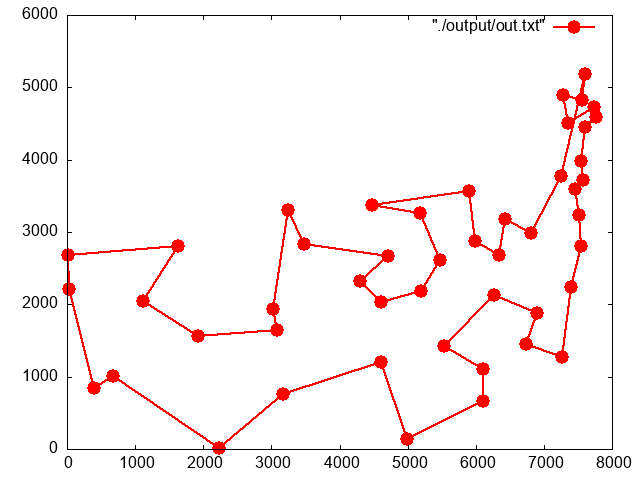
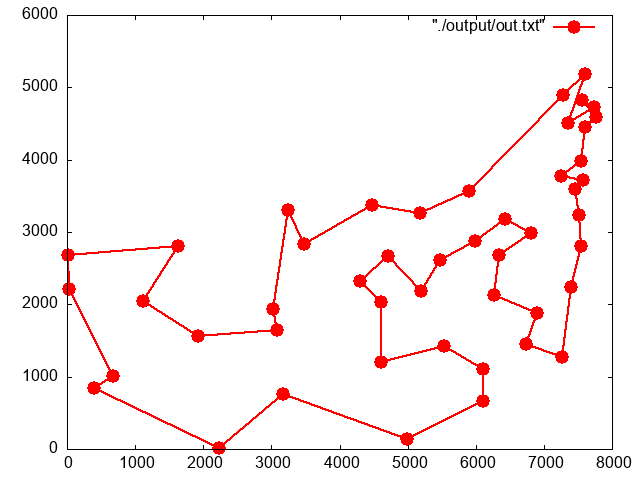
bug fixes

diff --git a/project/h_opt2.c b/project/h_opt2.c
@@ -34,12 +34,8 @@ int opt_2(instance *inst, double tl, int *solution, double *cost){
     
     if(!inst->flagCost)
         computeCost(inst);
-
-
-    inst->tabu = (int*)calloc(inst->nnodes, sizeof(int));
-    int tcurrent=1;
+    
     double delta;
-
     double oldCost = *cost; 
 
 
@@ -47,34 +43,26 @@ int opt_2(instance *inst, double tl, int *solution, double *cost){
         delta = 0;
         int a = -1, b = -1;
         for(int i=0; i<inst->nnodes-1; i++)
-          {  if((inst->tabu[i]==0 && inst->tabu[solution[i]]==0)||(inst->tabu[i] + tmax < tcurrent&& inst->tabu[solution[i]] + tmax < tcurrent))
-                 for(int j=i+1; j<inst->nnodes; j++)
+                for(int j=i+1; j<inst->nnodes; j++)
                 {
-                    if((inst->tabu[j]==0 && inst->tabu[solution[j]]==0)||(inst->tabu[j] + tmax < tcurrent&& inst->tabu[solution[j]] + tmax < tcurrent))
-                    {
-                         double deltaTemp = get_cost(i,j,inst)  +  get_cost(solution[j],solution[i],inst) -  (get_cost(i,solution[i],inst)  +  get_cost(j,solution[j],inst));
+                   double deltaTemp = get_cost(i,j,inst)  +  get_cost(solution[j],solution[i],inst) -  (get_cost(i,solution[i],inst)  +  get_cost(j,solution[j],inst));
                     
-                         if(deltaTemp < delta)
-                        {   
-                            delta = deltaTemp;
-                            a = i;
-                            b = j;
-                        }
-                    }
-            }
+                    if(deltaTemp < delta)
+                    {   
+                        delta = deltaTemp;
+                        a = i;
+                        b = j;
+                     }
+                    
+                }
            
-          }
+        if(delta < 0)  
+        {
+            reverse(inst,solution,a,b);
             *cost += delta;  //update cost
+        }
             
-
-            if(delta < 0)
-            {   if(inst->flagtabu==1)
-                    inst->tabu[a]=tcurrent;
-                reverse(inst,solution,a,b);
-            }   
-            if(a>=0)
-            tcurrent++;
-    } while(!timeOut(inst, tl)  && delta < 0);
+     }while(!timeOut(inst, tl)  && delta < 0);
 
     
     if(VERBOSE >= 10) {
@@ -90,12 +78,9 @@ int opt_2(instance *inst, double tl, int *solution, double *cost){
         updateSol(inst,*cost,solution);
     }
     
-    
+    plot(inst,solution,"2OPT");
 
     if(VERBOSE >= 1) printf("OPT2 IMROVEMENT: old cost %f --> new cost %f\n",oldCost, *cost);
-    if(inst->flagtabu==0)
-        plot(inst, solution,"2_opt");
     
-    free(inst->tabu);
     return 0;
 }

diff --git a/project/tsp.h b/project/tsp.h
@@ -11,7 +11,7 @@
 #include <stdio.h>
 
 //to re define
-#define VERBOSE				    10		// printing level  (=10 only incumbent, =20 little output, =50-60 good, =70 verbose, >=100 cplex log)
+#define VERBOSE				    50	// printing level  (=10 only incumbent, =20 little output, =50-60 good, =70 verbose, >=100 cplex log)
 
 //hard-wired parameters
 #define XSMALL		  		  1e-5 		// 1e-4*	// tolerance used to decide ingerality of 0-1 var.s
@@ -47,12 +47,6 @@ typedef struct {
 
     //flag to see if the costs array is set, 0 if not set
     int flagCost;
-
-    //flag to see if we have to check a tabu list
-    int flagtabu;
-
-    //list of tabu
-    int* tabu;
     
     //best sol.
     double zbest;							// cost of best sol. available

diff --git a/project/heuristics.c b/project/heuristics.c
@@ -17,10 +17,7 @@ int heuristic(instance *inst){
 
     }
     if(strcmp(inst->heuristic, "TABU") == 0)   {
-        inst->flagtabu=0;
         grasp(inst, 0, inst->timelimit / 10); //to modify, how much time do we actually want to use?
-        opt_2(inst, inst->timelimit, inst->best_sol, &(inst->zbest)); //TIME DA MODIFICARE
-        inst->flagtabu=1;
         return TABU(inst);
 
     }

diff --git a/project/h_tabu.c b/project/h_tabu.c
@@ -16,7 +16,7 @@ int TABU(instance *inst)
          //new crossed edges
     plot(inst, solution,"TABU");
 
-    inst->flagtabu=0;
+   
    
     return 0;
 }
